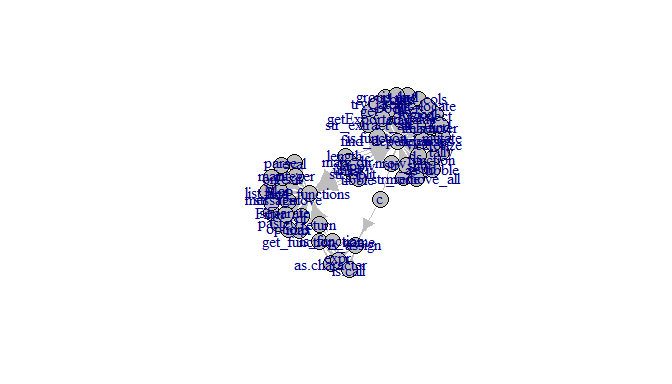
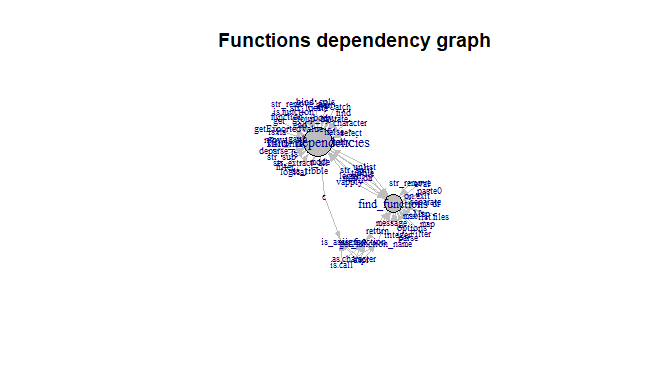
Updated README

Changed region(s): [[0.3438, 0.2188, 0.6875, 0.7188], [0.3125, 0.0625, 0.75, 0.1562]]

diff --git a/README.md b/README.md
@@ -6,7 +6,7 @@
 <!-- badges: start -->
 
 [![Lifecycle:
-experimental](https://img.shields.io/badge/lifecycle-experimental-orange.svg)](https://www.tidyverse.org/lifecycle/#experimental)
+maturing](https://img.shields.io/badge/lifecycle-maturing-blue.svg)](https://www.tidyverse.org/lifecycle/#maturing)
 [![Travis build
 status](https://travis-ci.com/WelcomeToMyVirtualHome/functiondepends.svg?branch=master)](https://travis-ci.com/WelcomeToMyVirtualHome/functiondepends)
 [![AppVeyor build
@@ -48,7 +48,7 @@ functions
 #> 5 R      find-functions.R    find_functions
 ```
 
-Search for dependencies of function `functions_in_path` within parsed
+Search for dependencies of function `find_functions` within parsed
 functions:
 
 ``` r
@@ -68,17 +68,16 @@ library(ggplot2)
 library(dplyr)
 
 dependency <- find_dependencies("find_dependencies", envir = envir, in_envir = FALSE)
-
 dependency %>% 
-  ggplot(aes(x = reorder(Source, SourceRep), y = SourceRep, fill = Namespace)) +
+  slice_max(SourceRep, n = 10) %>% 
+  mutate(Source = reorder(Source, SourceRep)) %>% 
+  ggplot(aes(x = Source, y = SourceRep, fill = Namespace)) +
   geom_col() +
   coord_flip() +
-  labs(title = "functions_in_path", x = "Source")
+  labs(caption = "Top 10 most repeated function calls in 'find_dependencies' function.")
 ```
 
 <img src="man/figures/README-functions_in_path-1.png" width="100%" />
-
-Limit results to functions only parsed from source files (user defined):
 
 ``` r
 library(ggplot2)
@@ -90,7 +89,8 @@ dependency %>%
   mutate(Target = reorder(Target, TargetInDegree)) %>%
   ggplot(aes(x = Target, y = TargetInDegree)) +
   geom_col() +
-  coord_flip() 
+  coord_flip() + 
+  labs(caption = "Functions with most function calls.")
 ```
 
 <img src="man/figures/README-target_degree-1.png" width="100%" />
@@ -109,11 +109,16 @@ g <- graph_from_data_frame(
   vertices = vertices,
   directed = TRUE
 )
+deg <- degree(g, mode = "in")
+V(g)$size <- deg
+V(g)$label.cex <- (degree(g, mode = "in", normalized = TRUE) + 1) / 1.8
+
 plot(
   g,
   vertex.color = "grey",
-  edge.color = "grey", 
-  vertex.size = 20
+  edge.color = "grey",
+  edge.arrow.size = .4,
+  main = "Functions dependency graph"
 )
 ```
 
